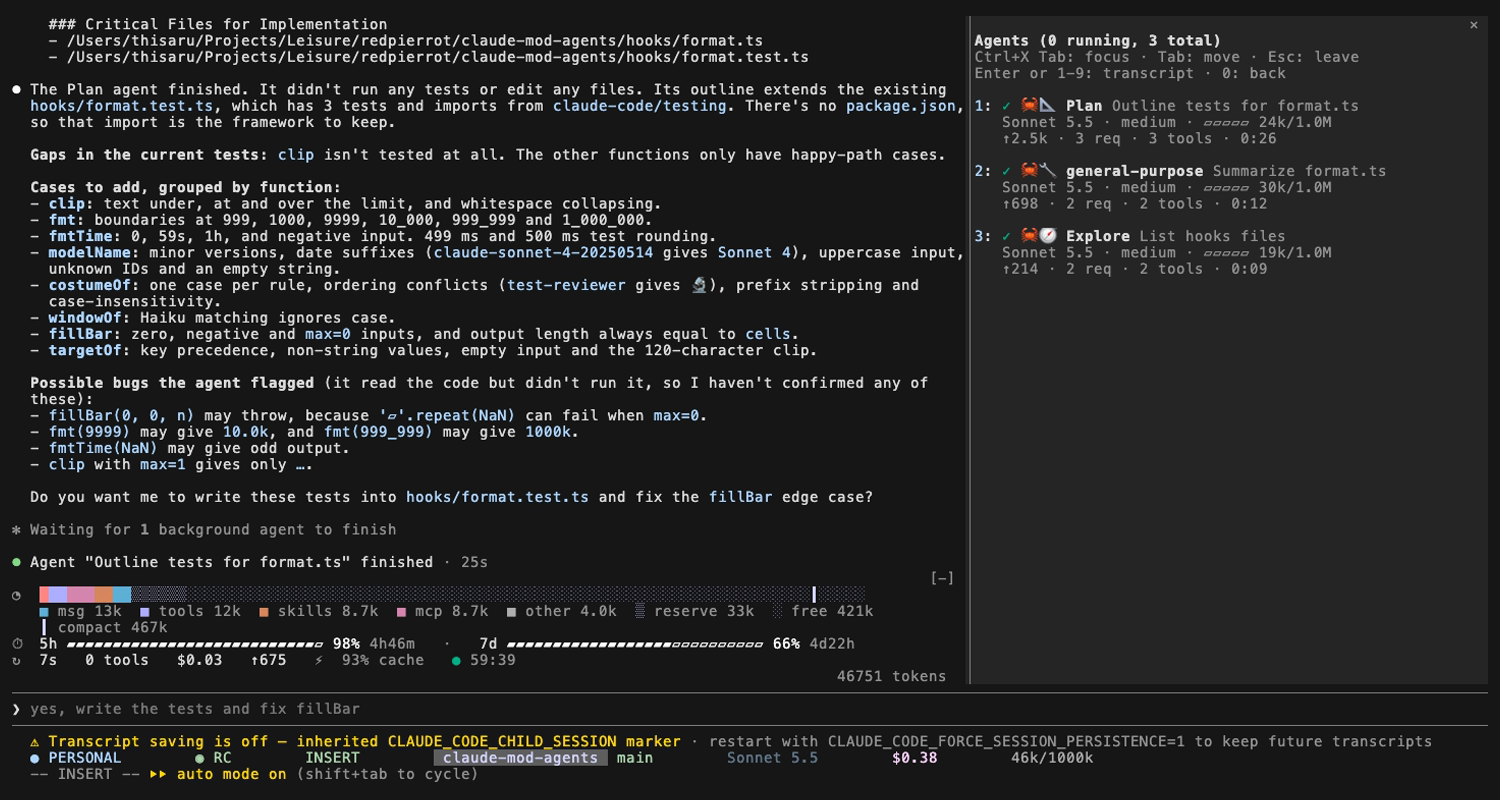
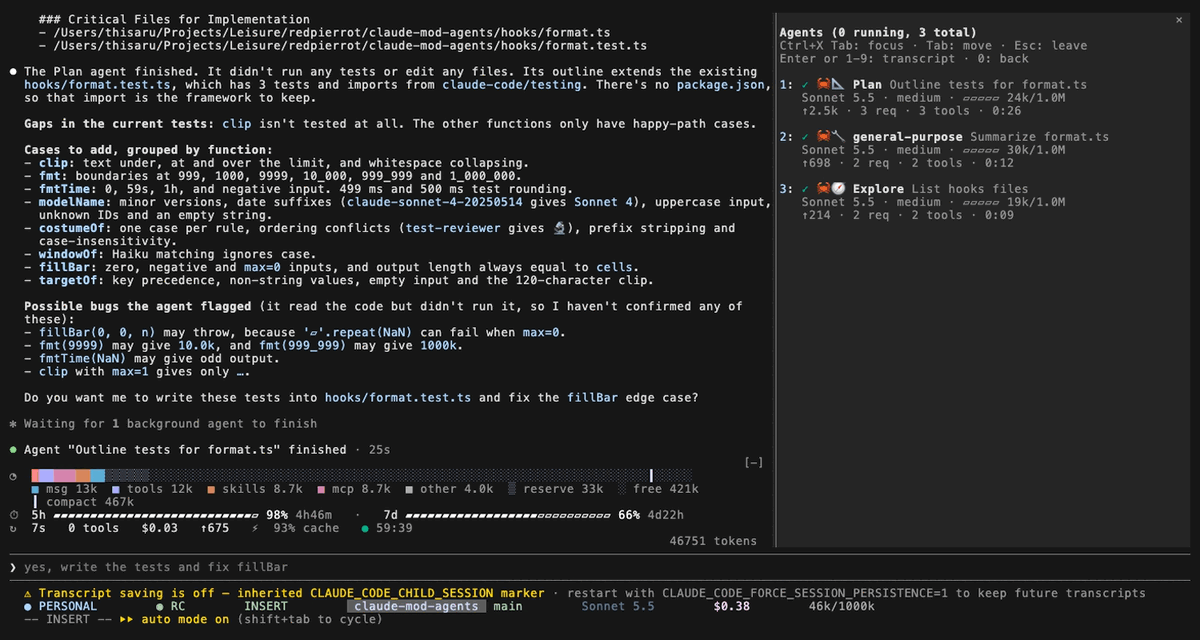
docs: describe each hook for directory review; slim screenshots (1.0.1)
- README: list what every hook reads and changes, and that nothing is sent out
- re-encode screenshots smaller, without metadata
- bump to 1.0.1

diff --git a/README.md b/README.md
@@ -63,6 +63,19 @@ A mod runs inside the Claude Code process with your permissions and no sandbox. 
 - makes no network calls, registers no tools, spawns no processes, reads and writes no files;
 - registers one slash command, `/agents-pane`, and calls `$.ui.view` only from a key press or that command.
 
+### What each hook does
+
+Nothing in this mod sends data out of your machine. Every hook is listed here, with what it sees and what it changes:
+
+- `session.start`: starts a one-second timer that redraws the elapsed times of running agents, and registers `/agents-pane`. It passes the event on unchanged.
+- `agent.spawn`: reads the event after the engine has handled it, to record the agent's type, label and model in memory, opens the pane when the first agent starts, and passes the result on unchanged. It never denies, rewrites or starts an agent.
+- `turn.step`, `tool.call` and `turn.complete`: read-only. They record token counts and tool names for the pane, and pass every event on unchanged.
+- `ui.open`, `ui.close` and the two `ui.render` hooks: draw the pane and the rows above the prompt from that in-memory list. `ui.open` and `ui.close` only react to this mod's own pane and pass the event on.
+- `command.run` for `/agents-pane`: answers only that command, with a line of text. It does not touch permissions, settings, Remote Control, other commands or files, and the plugin never registers a permission hook.
+- `$.ui.view`: called only from a key press in the pane or from `/agents-pane view` and `/agents-pane back`. It switches the main view to a subagent's transcript that Claude Code already holds in memory, and back. Nothing is read from disk or sent anywhere.
+
+The mod calls no other plugin.
+
 Read `hooks/register.tsx` before you install it.
 
 ## Develop

diff --git a/CHANGELOG.md b/CHANGELOG.md
@@ -1,5 +1,10 @@
 # Changelog
 
+## 1.0.1 - 2026-11-05
+
+- README: list what each hook reads and changes, for the plugin directory review.
+- Screenshots re-encoded smaller, without metadata.
+
 ## 1.0.0 - 2026-11-05
 
 First public release. The plugin is now named `agent-crabs` (it was `agents` in development builds).
